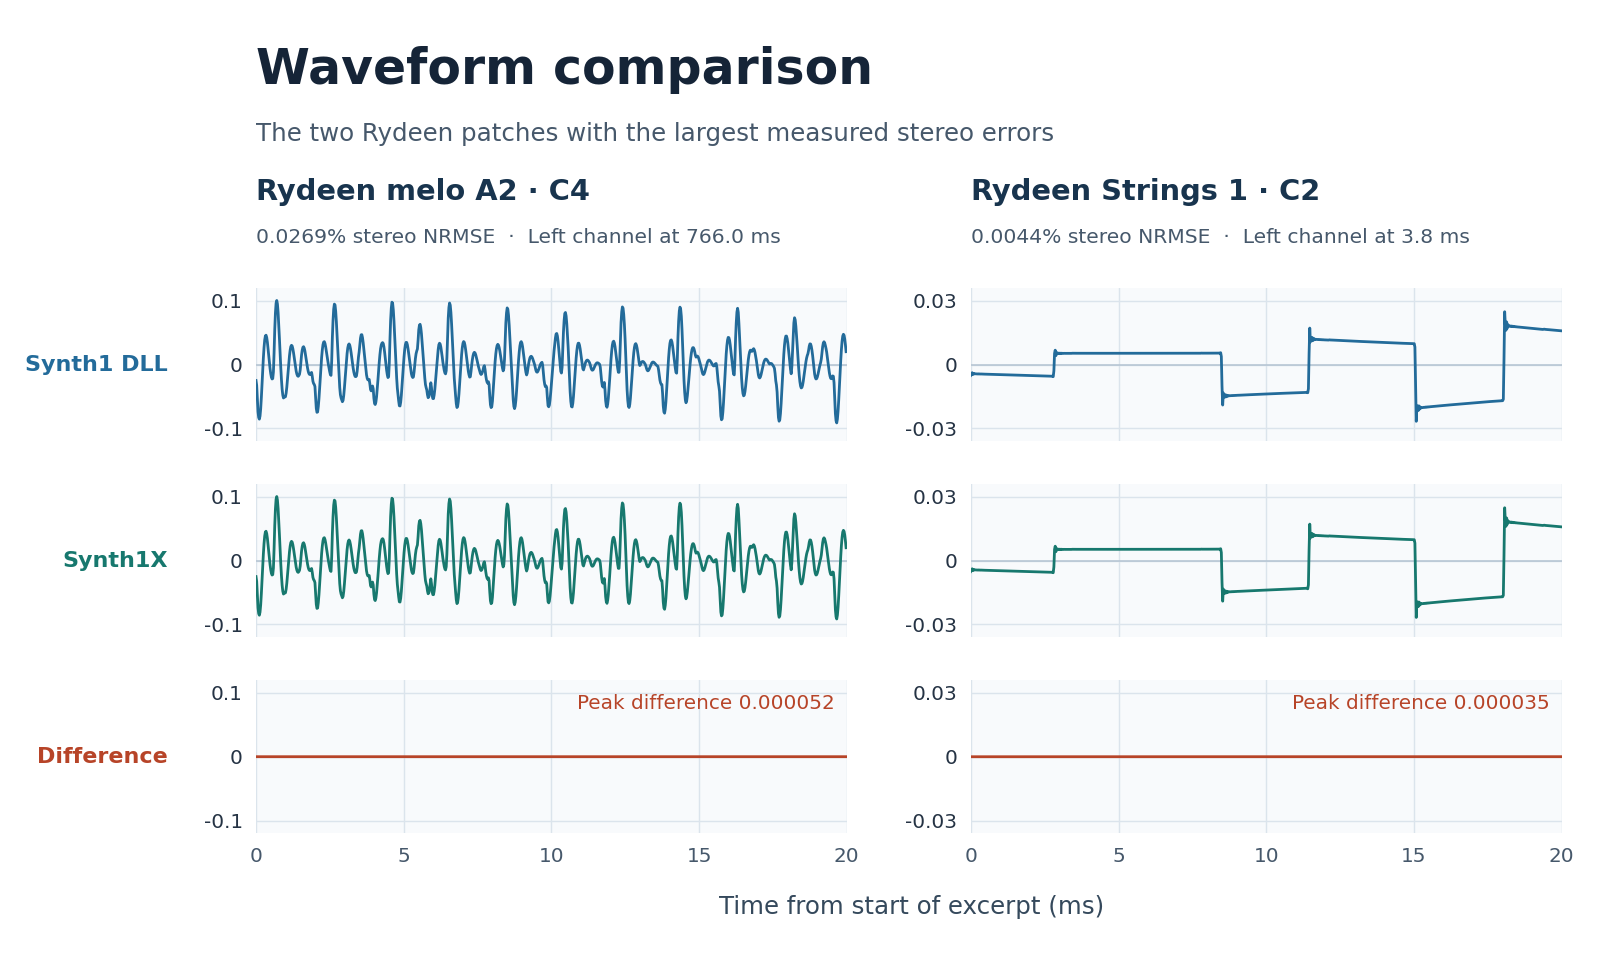
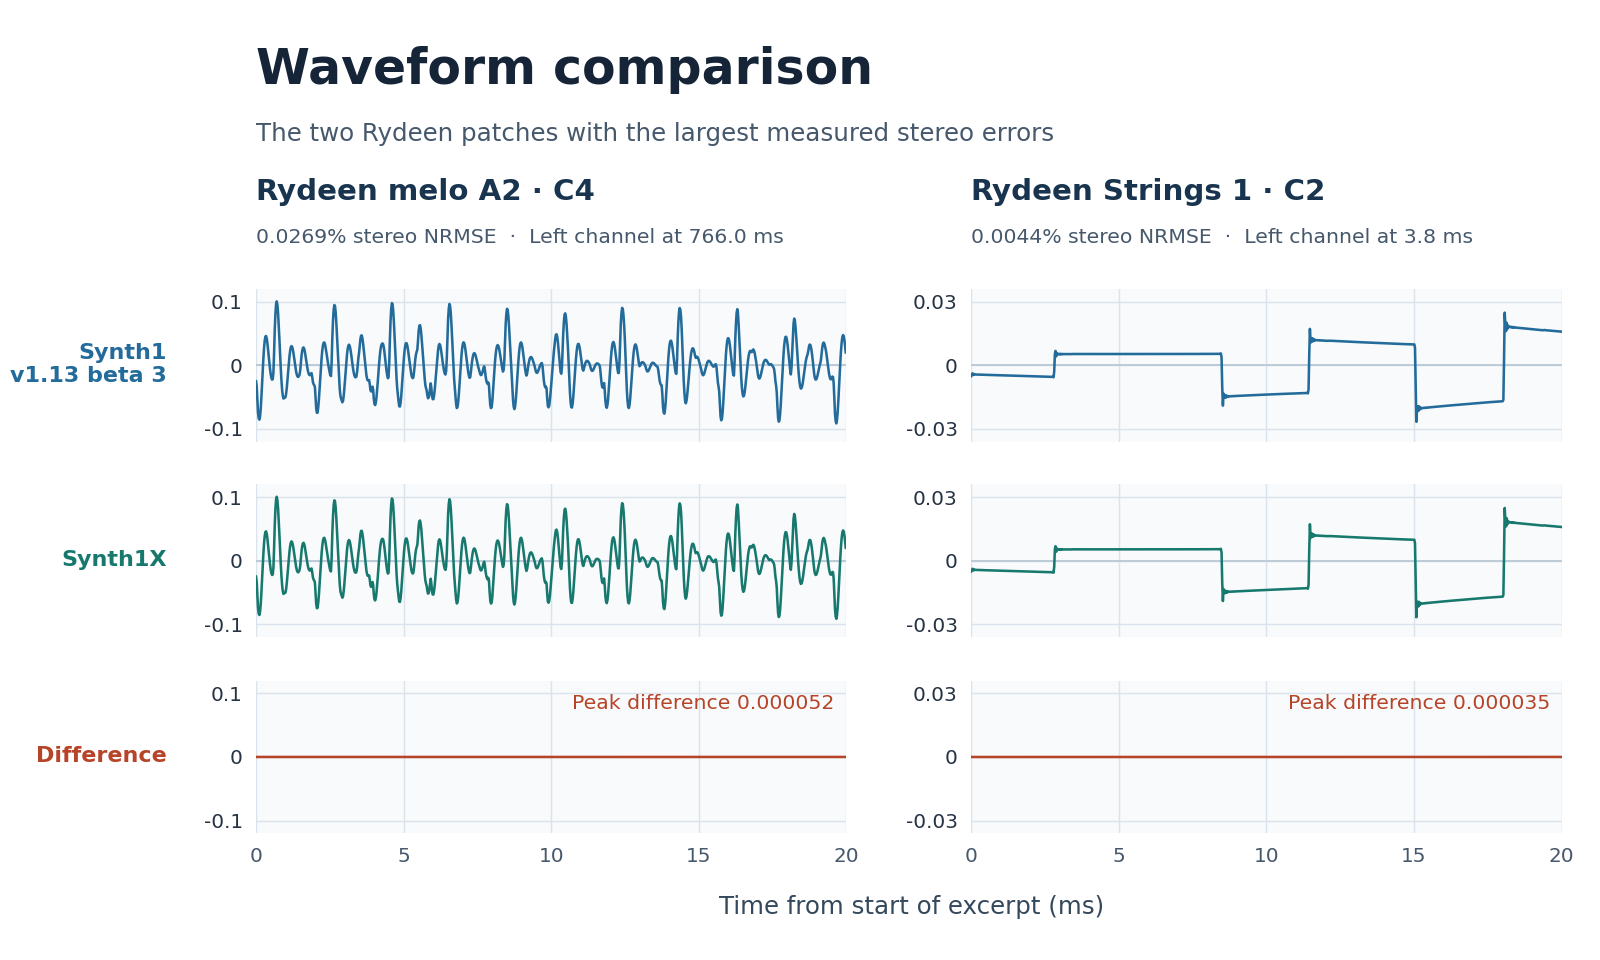
Label README audio comparisons with the Synth1 version

diff --git a/README.md b/README.md
@@ -53,7 +53,7 @@ signal had about **1/3,700** of the Synth1 reference's RMS amplitude, or
 **71 dB below** the reference RMS. The 99 compared patch controls matched in
 every run.
 
-![Stereo waveform error for 15 Rydeen patches at C2, C4 and C6, plotted against the 0.5% comparison target.](docs/images/rydeen-comparison.png)
+![Stereo waveform error between Synth1X and Synth1 v1.13 beta 3 for 15 Rydeen patches at C2, C4 and C6, plotted against the 0.5% comparison target.](docs/images/rydeen-comparison.png)
 
 Each dot is one patch at one pitch. The panels share a logarithmic scale, with
 smaller errors toward the left. The dashed line marks the project's
@@ -61,7 +61,7 @@ smaller errors toward the left. The dashed line marks the project's
 
 ### Waveform excerpts
 
-![Separate Synth1 DLL, Synth1X and difference waveforms for Rydeen melo A2 at C4 and Rydeen Strings 1 at C2.](docs/images/rydeen-waveforms.png)
+![Separate Synth1 v1.13 beta 3, Synth1X and difference waveforms for Rydeen melo A2 at C4 and Rydeen Strings 1 at C2.](docs/images/rydeen-waveforms.png)
 
 For each of the two highest-error patches, the figure shows the 20 ms window
 with the largest RMS difference in the left channel. All three traces in each
